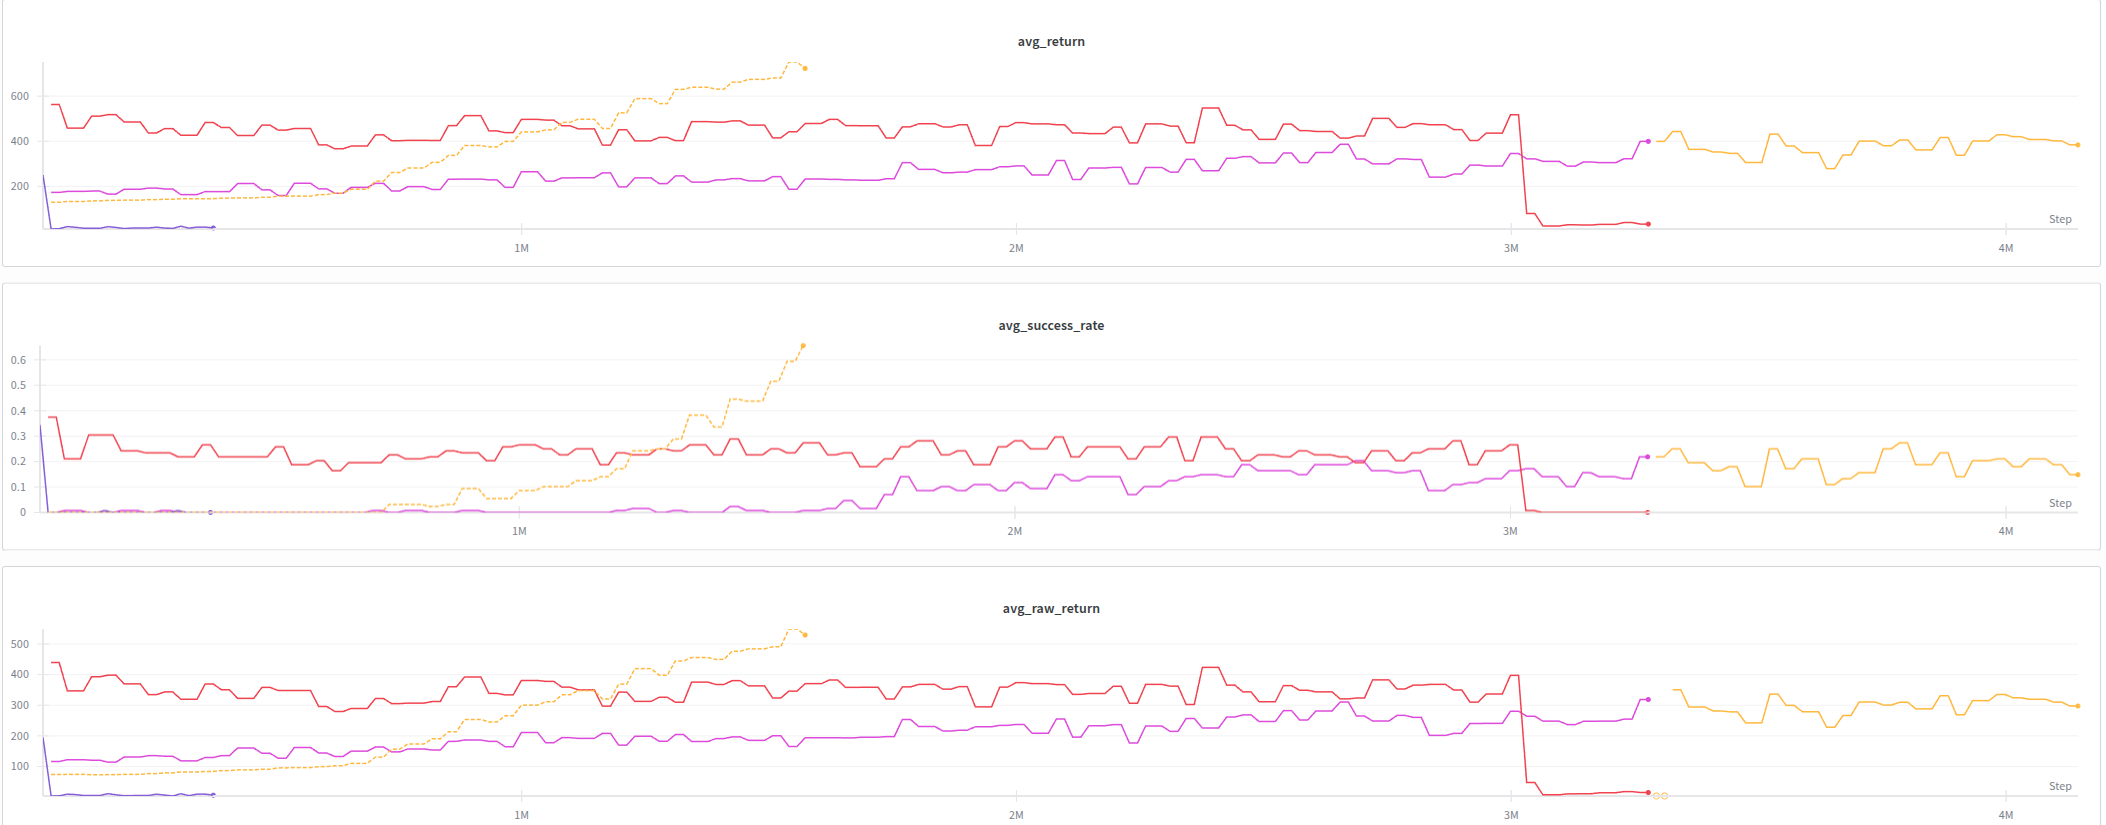
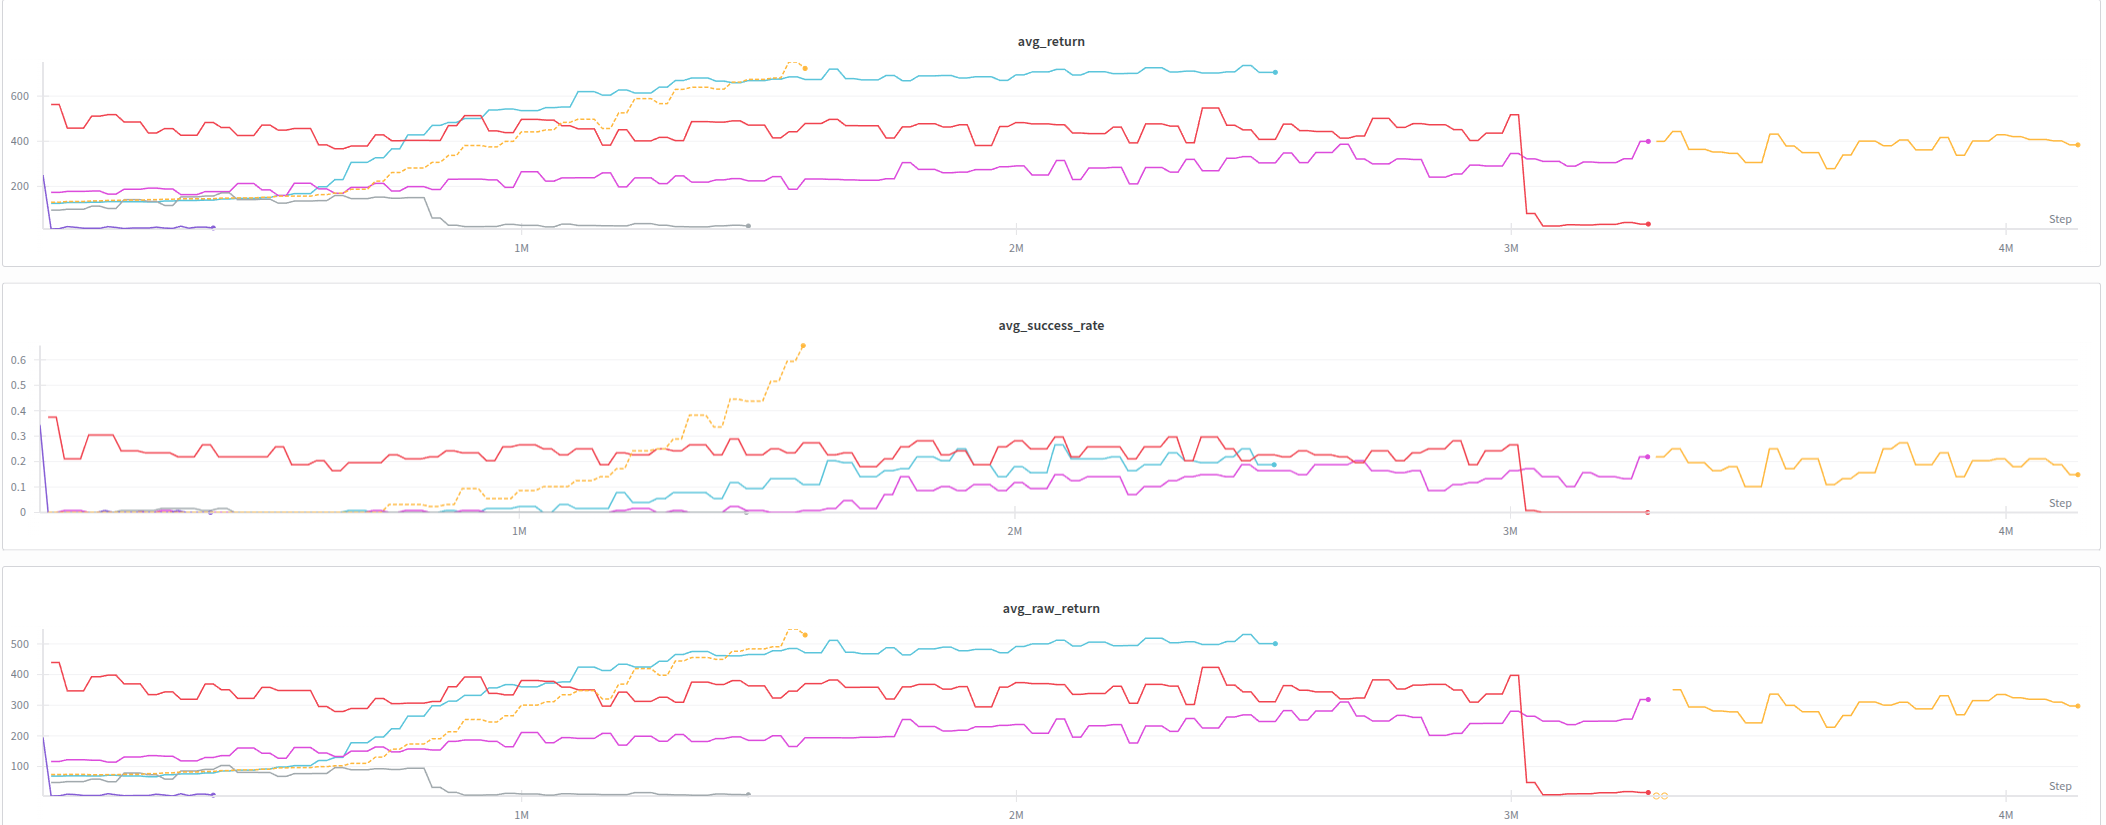
rl_osc_delta exp5 working good

diff --git a/scripts/peg_hole_2/rl_osc_delta_current.py b/scripts/peg_hole_2/rl_osc_delta_current.py
@@ -81,7 +81,7 @@ MAX_WRENCH_TORQUE = 20.0
 class CtrlCfg:
     ema_factor = 0.2
 
-    pos_action_bounds = [0.05, 0.05, 0.05]
+    pos_action_bounds = [0.07, 0.07, 0.07]#[0.05, 0.05, 0.05]
     rot_action_bounds = [1.0, 1.0, 1.0]
 
     pos_action_threshold = [0.02, 0.02, 0.02] # [1.0, 1.0, 1.0]#
@@ -895,7 +895,7 @@ class FactoryEnv(DirectRLEnv):
         if self.cfg_task.name == "peg_insert":
             held_asset_relative_pos = torch.zeros_like(self.held_base_pos_local)
             held_asset_relative_pos[:, 2] = self.cfg_task.held_asset_cfg.height
-            held_asset_relative_pos[:, 2] -= self.cfg_task.robot_cfg.franka_fingerpad_length - 0.016
+            held_asset_relative_pos[:, 2] -= self.cfg_task.robot_cfg.franka_fingerpad_length - 0.008 ## 0.005 #0.011--max
         else:
             raise NotImplementedError("Task not implemented")
 

diff --git a/scripts/peg_hole_2/factory_tasks_cfg.py b/scripts/peg_hole_2/factory_tasks_cfg.py
@@ -120,7 +120,7 @@ class PegInsert(FactoryTask):
     fixed_asset_init_orn_range_deg: float = 360.0
 
     # Held Asset (applies to all tasks)
-    held_asset_pos_noise: list = [0.003, 0.0, 0.005]#[0.003, 0.0, 0.003]  # noise level of the held asset in gripper
+    held_asset_pos_noise: list = [0.003, 0.0, 0.003]#[0.003, 0.0, 0.003]  # noise level of the held asset in gripper
     held_asset_rot_init: float = 0.0
 
     # Rewards

diff --git a/scripts/peg_hole_2/exp_docs/experiments.md b/scripts/peg_hole_2/exp_docs/experiments.md
@@ -1,22 +1,21 @@
 # Experiments Log
 
-## Experiment 3->4:
+## Experiment 4->5:
 
 **Script:** 
 [rl_osc_delta_current.py](../rl_osc_delta_current.py)
 [factory_tasks_cfg](../factory_tasks_cfg.py)
 
 **Description:**
-- exp 3 -> 4
-- episode_length_s = 20s
-- default_task_prop_gains = [300, 300, 300, 90, 90, 90] --> [100, 100, 100, 30, 30, 30]
-- kd_null = 100 --> 6.3246
+- exp 4->5
+- peg position and noise (0.016) noise [0.003, 0.0, 0.005] --> (0.008) [0.003, 0.0, 0.003]
+- [0.05, 0.05, 0.05] --> [0.07, 0.07, 0.07]
 
 
 **Training Graph:**
 
 ![Training Graph](./image.png)
 
-**inference video**
-![video](./cam0_video.mp4)
+<!-- **inference video**
+![video](./cam0_video.mp4) -->
 ---
